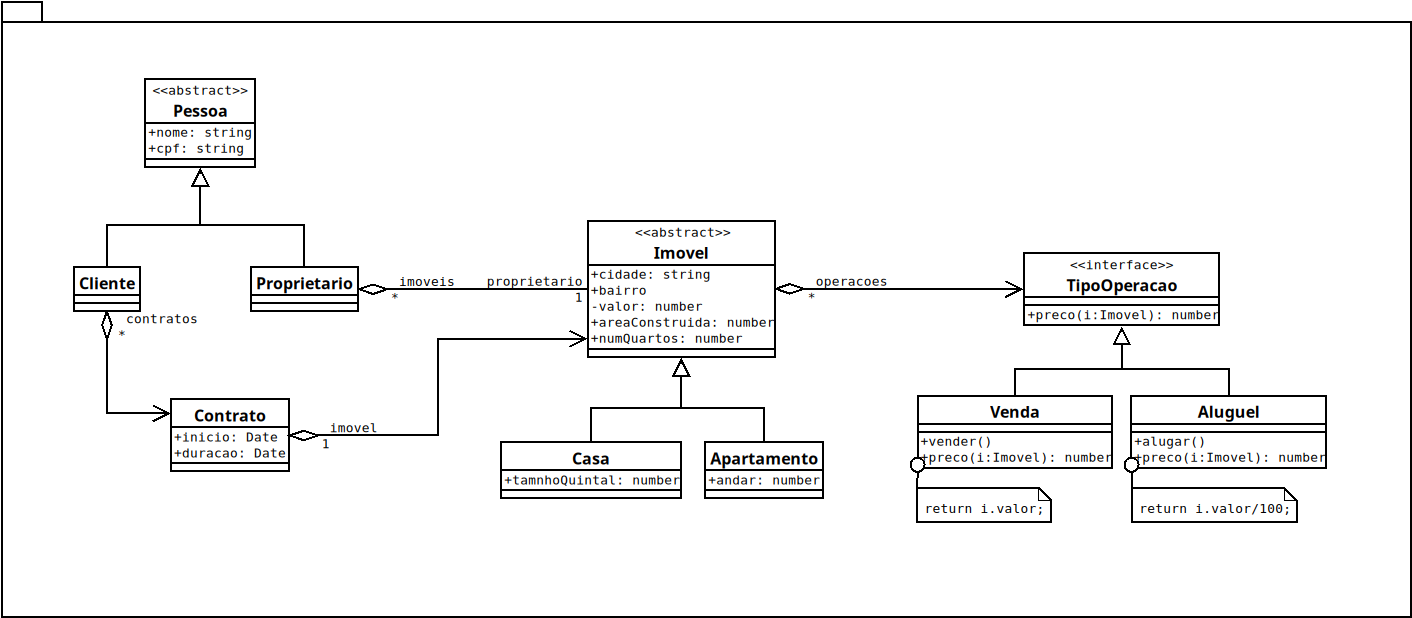
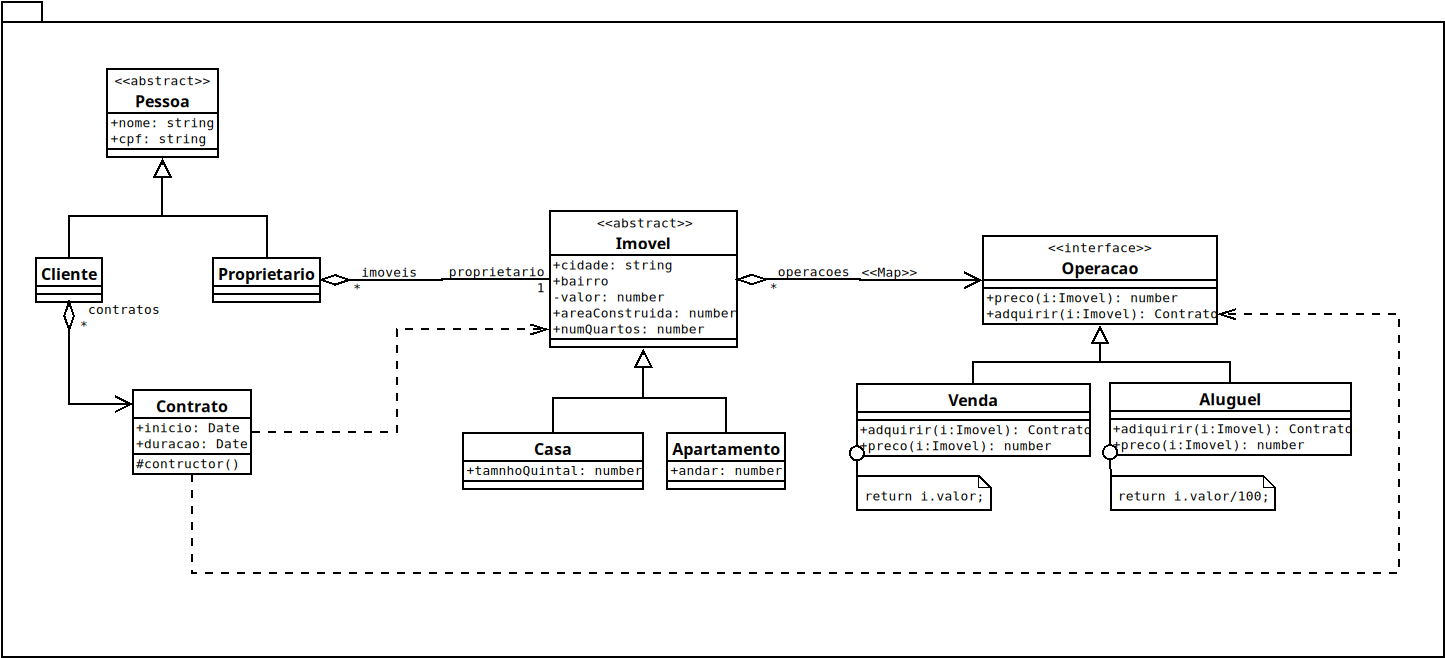
add initial implementation of UML classes

Changed region(s): [[0.0312, 0.0922, 0.9348, 0.8608], [0.0, 0.0307, 1.0, 0.0615], [0.0, 0.3689, 0.1558, 0.5534]]

diff --git a/main.ts b/main.ts
@@ -1,0 +1,63 @@
+interface Operacao
+{
+    adquirir(i: Imovel): Contrato;
+    preco(i: Imovel): number;
+}
+
+class Venda implements Operacao{
+    adquirir(i: Imovel): Contrato{
+        i.operacoes = [];
+        return new Contrato(i, this, new Date());
+    }
+    preco(i: Imovel): number{
+        return i.valor;
+    }
+}
+
+class Aluguel implements Operacao{
+    adquirir(i: Imovel): Contrato{
+        i.operacoes = [];
+        return new Contrato(i, this, new Date(), new Date());
+    }
+    preco(i: Imovel): number{
+        return i.valor / 100;
+    }
+}
+
+abstract class Imovel{
+    constructor(public cidade: string, public bairro: string, public areaConstruida: number, 
+        public numQuartos: number, public valor: number, public operacoes: Operacao[] = []){}
+}
+
+class Casa extends Imovel{
+    constructor(public areaQuintal: number, cidade: string, bairro: string, areaConstruida: number, numQuartos: number, valor: number){
+        super(cidade, bairro, areaConstruida, numQuartos, valor);
+    }
+}
+
+class Apartamento extends Imovel{
+    constructor(public andar: number, cidade: string, bairro: string, areaConstruida: number, numQuartos: number, valor: number){
+        super(cidade, bairro, areaConstruida, numQuartos, valor);
+    }
+}
+
+abstract class Pessoa{
+    constructor(public nome: string, public cpf: string){}
+}
+
+class Cliente extends Pessoa{
+    constructor(public contratos: Contrato[] = [], nome: string, cpf: string){
+        super(nome, cpf);
+    }
+}
+
+class Proprietario extends Pessoa{
+    constructor(public imoveis: Imovel[] = [], nome: string, cpf: string){
+        super(nome, cpf);
+    }
+}
+
+class Contrato{
+    constructor(public imovel: Imovel, public operacao: Operacao, public inicio: Date, public duracao?: Date){
+    }
+}
